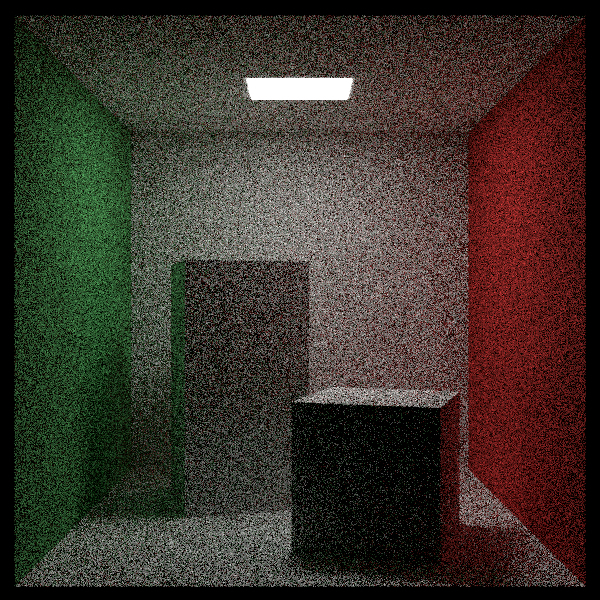
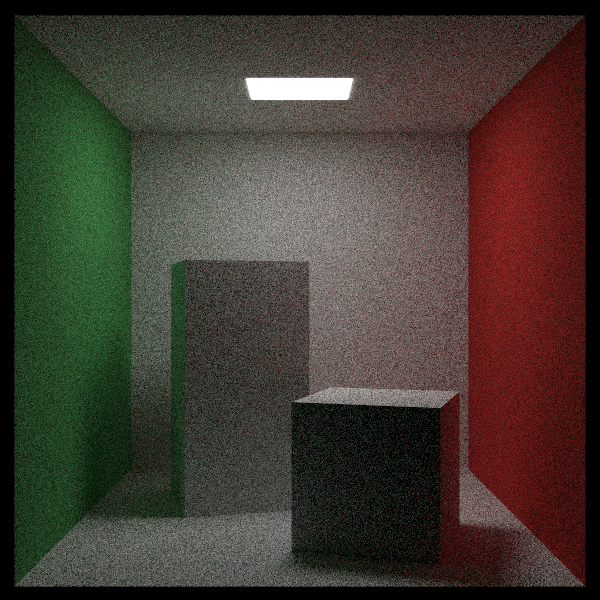
3-image3 generated

diff --git a/raytracer/src/material/mod.rs b/raytracer/src/material/mod.rs
@@ -1,16 +1,26 @@
-use std::sync::Arc;
+use std::{f64::consts::PI, sync::Arc};
 
 use rand::Rng;
 
 use crate::{
     basic::ray::Ray,
-    basic::vec::{random_in_unit_sphere, reflect, refract, Color, Point3, Vec3},
+    basic::{
+        onb::Onb,
+        vec::{
+            random_cosine_direction, random_in_unit_sphere, reflect, refract, Color, Point3, Vec3,
+        },
+    },
     hittable::HitRecord,
     texture::{SolidColor, Texture},
 };
 
 pub trait Material: Send + Sync {
-    fn scatter(&self, r_in: Ray, rec: &HitRecord) -> Option<(Color, Ray)>;
+    fn scatter(&self, _r_in: Ray, _rec: &HitRecord) -> Option<(Color, Ray, f64)> {
+        None
+    }
+    fn scattering_pdf(&self, _r_in: Ray, _rec: &HitRecord, _scattered: Ray) -> f64 {
+        0.
+    }
     fn emitted(&self, _u: f64, _v: f64, _p: Point3) -> Color {
         Color::new(0., 0., 0.)
     }
@@ -33,15 +43,38 @@ impl Lambertian {
 }
 
 impl Material for Lambertian {
-    fn scatter(&self, r_in: Ray, rec: &HitRecord) -> Option<(Color, Ray)> {
+    fn scatter(&self, r_in: Ray, rec: &HitRecord) -> Option<(Color, Ray, f64)> {
+        /*
         let mut scatter_direction = rec.normal + Vec3::random_unit_vector();
         if scatter_direction.near_zero() {
             scatter_direction = rec.normal;
         }
-        Some((
-            self.albedo.value(rec.u, rec.v, rec.p),
-            Ray::new(rec.p, scatter_direction, r_in.tm),
-        ))
+        let scattered = Ray::new(rec.p, scatter_direction.to_unit(), r_in.tm); // XXX
+        let alb = self.albedo.value(rec.u, rec.v, rec.p);
+        let pdf = Vec3::dot(rec.normal, scattered.dir) / PI;
+        Some((alb, scattered, pdf))
+        */
+        /*
+        let direction = random_in_hemisphere(rec.normal);
+        let scattered = Ray::new(rec.p, direction.to_unit(), r_in.tm); // XXX
+        let alb = self.albedo.value(rec.u, rec.v, rec.p);
+        let pdf = 0.5 / PI;
+        Some((alb, scattered, pdf))
+        */
+        let uvw = Onb::build_from_w(rec.normal);
+        let direction = uvw.local_vec(random_cosine_direction());
+        let scattered = Ray::new(rec.p, direction.to_unit(), r_in.tm);
+        let alb = self.albedo.value(rec.u, rec.v, rec.p);
+        let pdf = Vec3::dot(uvw.w(), scattered.dir) / PI;
+        Some((alb, scattered, pdf))
+    }
+    fn scattering_pdf(&self, _r_in: Ray, rec: &HitRecord, scattered: Ray) -> f64 {
+        let cosine = Vec3::dot(rec.normal, scattered.dir.to_unit());
+        if cosine < 0. {
+            0.
+        } else {
+            cosine / PI
+        }
     }
 }
 
@@ -61,7 +94,7 @@ impl Metal {
 }
 
 impl Material for Metal {
-    fn scatter(&self, r_in: Ray, rec: &HitRecord) -> Option<(Color, Ray)> {
+    fn scatter(&self, r_in: Ray, rec: &HitRecord) -> Option<(Color, Ray, f64)> {
         let reflected = reflect(r_in.dir.to_unit(), rec.normal);
         let scattered = Ray::new(
             rec.p,
@@ -69,7 +102,7 @@ impl Material for Metal {
             r_in.tm,
         );
         if Vec3::dot(scattered.dir, rec.normal) > 0. {
-            Some((self.albedo, scattered))
+            Some((self.albedo, scattered, 0.))
         } else {
             None
         }
@@ -96,7 +129,7 @@ impl Dielectric {
 }
 
 impl Material for Dielectric {
-    fn scatter(&self, r_in: Ray, rec: &HitRecord) -> Option<(Color, Ray)> {
+    fn scatter(&self, r_in: Ray, rec: &HitRecord) -> Option<(Color, Ray, f64)> {
         let refraction_ratio = if rec.front_face {
             1. / self.ir
         } else {
@@ -119,7 +152,11 @@ impl Material for Dielectric {
             refract(unit_direction, rec.normal, refraction_ratio)
         };
 
-        Some((Color::new(1., 1., 1.), Ray::new(rec.p, direction, r_in.tm)))
+        Some((
+            Color::new(1., 1., 1.),
+            Ray::new(rec.p, direction, r_in.tm),
+            0.,
+        ))
     }
 }
 
@@ -140,7 +177,7 @@ impl DiffuseLight {
 }
 
 impl Material for DiffuseLight {
-    fn scatter(&self, _r_in: Ray, _rec: &HitRecord) -> Option<(Color, Ray)> {
+    fn scatter(&self, _r_in: Ray, _rec: &HitRecord) -> Option<(Color, Ray, f64)> {
         None
     }
     fn emitted(&self, u: f64, v: f64, p: Point3) -> Color {
@@ -164,10 +201,11 @@ impl Isotropic {
 }
 
 impl Material for Isotropic {
-    fn scatter(&self, r_in: Ray, rec: &HitRecord) -> Option<(Color, Ray)> {
+    fn scatter(&self, r_in: Ray, rec: &HitRecord) -> Option<(Color, Ray, f64)> {
         Some((
             self.albedo.value(rec.u, rec.v, rec.p),
             Ray::new(rec.p, random_in_unit_sphere(), r_in.tm),
+            0.,
         ))
     }
 }

diff --git a/raytracer/src/main.rs b/raytracer/src/main.rs
@@ -44,7 +44,7 @@ fn main() {
     const IMAGE_HEIGHT: u32 = 600;
     const ASPECT_RATIO: f64 = IMAGE_WIDTH as f64 / IMAGE_HEIGHT as f64;
     const IMAGE_QUALITY: u8 = 100; // From 0 to 100
-    const SAMPLES_PER_PIXEL: i32 = 100;
+    const SAMPLES_PER_PIXEL: i32 = 500;
     const MAX_DEPTH: i32 = 50;
     const THREAD_NUMBER: u32 = 8;
     const SECTION_LINE_NUM: u32 = IMAGE_HEIGHT / THREAD_NUMBER;
@@ -60,9 +60,11 @@ fn main() {
     let background = Color::new(0., 0., 0.);
 
     println!(
-        "Image size: {}\nJPEG IMAGE_QUALITY: {}",
+        "IMAGE SIZE: {}\nJPEG QUALITY: {}\nSAMPLE PER PIXEL: {}\nMAX DEPTH: {}",
         style(IMAGE_WIDTH.to_string() + &"x".to_string() + &IMAGE_HEIGHT.to_string()).yellow(),
         style(IMAGE_QUALITY.to_string()).yellow(),
+        style(SAMPLES_PER_PIXEL.to_string()).yellow(),
+        style(MAX_DEPTH.to_string()).yellow(),
     );
 
     // World
@@ -98,10 +100,10 @@ fn main() {
     );
 
     // Random line
-    let mut random_line_id: Vec<u32> = Vec::new();
+    let mut random_line_id: [u32; IMAGE_HEIGHT as usize] = [0; IMAGE_HEIGHT as usize];
     let mut rng = rand::thread_rng();
     for i in 0..IMAGE_HEIGHT {
-        random_line_id.push(i);
+        random_line_id[i as usize] = i;
         let target = rng.gen_range(0..i + 1);
         random_line_id.swap(i as usize, target as usize);
     }
@@ -116,7 +118,7 @@ fn main() {
 
     for thread_id in 0..THREAD_NUMBER {
         // line
-        let line_id = random_line_id.clone();
+        let line_id = random_line_id;
         let line_beg = thread_id * SECTION_LINE_NUM;
         let mut line_end = line_beg + SECTION_LINE_NUM;
         if thread_id == THREAD_NUMBER - 1 {
@@ -244,8 +246,12 @@ fn ray_color(r: Ray, background: Color, world: &BvhNode, depth: i32) -> Color {
     }
     if let Some(rec) = world.hit(r, 0.001, f64::MAX) {
         let emitted = rec.mat_ptr.emitted(rec.u, rec.v, rec.p);
-        if let Some((attenuation, scattered)) = rec.mat_ptr.scatter(r, &rec) {
-            emitted + attenuation * ray_color(scattered, background, world, depth - 1)
+        if let Some((albedo, scattered, pdf)) = rec.mat_ptr.scatter(r, &rec) {
+            emitted
+                + albedo
+                    * rec.mat_ptr.scattering_pdf(r, &rec, scattered)
+                    * ray_color(scattered, background, world, depth - 1)
+                    / pdf
         } else {
             emitted
         }

diff --git a/raytracer/src/basic/vec.rs b/raytracer/src/basic/vec.rs
@@ -1,4 +1,5 @@
 use rand::Rng;
+use std::f64::consts::PI;
 use std::fmt;
 use std::fmt::Display;
 use std::ops::{
@@ -57,14 +58,6 @@ impl Vec3 {
         random_in_unit_sphere().to_unit()
     }
 
-    // vec3 random_in_hemisphere(const vec3& normal) {
-    //     vec3 in_unit_sphere = random_in_unit_sphere();
-    //     if (dot(in_unit_sphere, normal) > 0.0) // In the same hemisphere as the normal
-    //         return in_unit_sphere;
-    //     else
-    //         return -in_unit_sphere;
-    // }
-
     pub fn near_zero(&self) -> bool {
         let eps = 1e-8;
         f64::abs(self.x) < eps && f64::abs(self.y) < eps && f64::abs(self.z) < eps
@@ -80,7 +73,7 @@ pub fn random_in_unit_sphere() -> Vec3 {
     }
 }
 
-/*
+#[allow(dead_code)]
 pub fn random_in_hemisphere(normal: Vec3) -> Vec3 {
     let in_unit_sphere = random_in_unit_sphere();
     if Vec3::dot(in_unit_sphere, normal) > 0. {
@@ -89,7 +82,6 @@ pub fn random_in_hemisphere(normal: Vec3) -> Vec3 {
         -in_unit_sphere
     }
 }
-*/
 
 pub fn random_in_unit_disk() -> Vec3 {
     let mut rng = rand::thread_rng();
@@ -99,6 +91,17 @@ pub fn random_in_unit_disk() -> Vec3 {
             return p;
         }
     }
+}
+
+pub fn random_cosine_direction() -> Vec3 {
+    let mut rng = rand::thread_rng();
+    let r1: f64 = rng.gen();
+    let r2: f64 = rng.gen();
+    let z = (1. - r2).sqrt();
+    let phi = 2. * PI * r1;
+    let x = phi.cos() * r2.sqrt();
+    let y = phi.sin() * r2.sqrt();
+    Vec3::new(x, y, z)
 }
 
 pub fn reflect(v: Vec3, n: Vec3) -> Vec3 {

diff --git a/raytracer/src/basic/onb.rs b/raytracer/src/basic/onb.rs
@@ -1,0 +1,36 @@
+use super::vec::Vec3;
+
+pub struct Onb {
+    axis: [Vec3; 3],
+}
+
+#[allow(dead_code)]
+impl Onb {
+    pub fn u(&self) -> Vec3 {
+        self.axis[0]
+    }
+    pub fn v(&self) -> Vec3 {
+        self.axis[1]
+    }
+    pub fn w(&self) -> Vec3 {
+        self.axis[2]
+    }
+    pub fn local(&self, a: f64, b: f64, c: f64) -> Vec3 {
+        self.u() * a + self.v() * b + self.w() * c
+    }
+    pub fn local_vec(&self, a: Vec3) -> Vec3 {
+        self.u() * a.x + self.v() * a.y + self.w() * a.z
+    }
+    #[allow(clippy::many_single_char_names)]
+    pub fn build_from_w(n: Vec3) -> Self {
+        let w = n.to_unit();
+        let a = if w.x.abs() > 0.9 {
+            Vec3::new(0., 1., 0.)
+        } else {
+            Vec3::new(1., 0., 0.)
+        };
+        let v = Vec3::cross(w, a).to_unit();
+        let u = Vec3::cross(w, v);
+        Self { axis: [u, v, w] }
+    }
+}

diff --git a/raytracer/src/basic/mod.rs b/raytracer/src/basic/mod.rs
@@ -1,3 +1,4 @@
 pub mod camera;
+pub mod onb;
 pub mod ray;
 pub mod vec;
